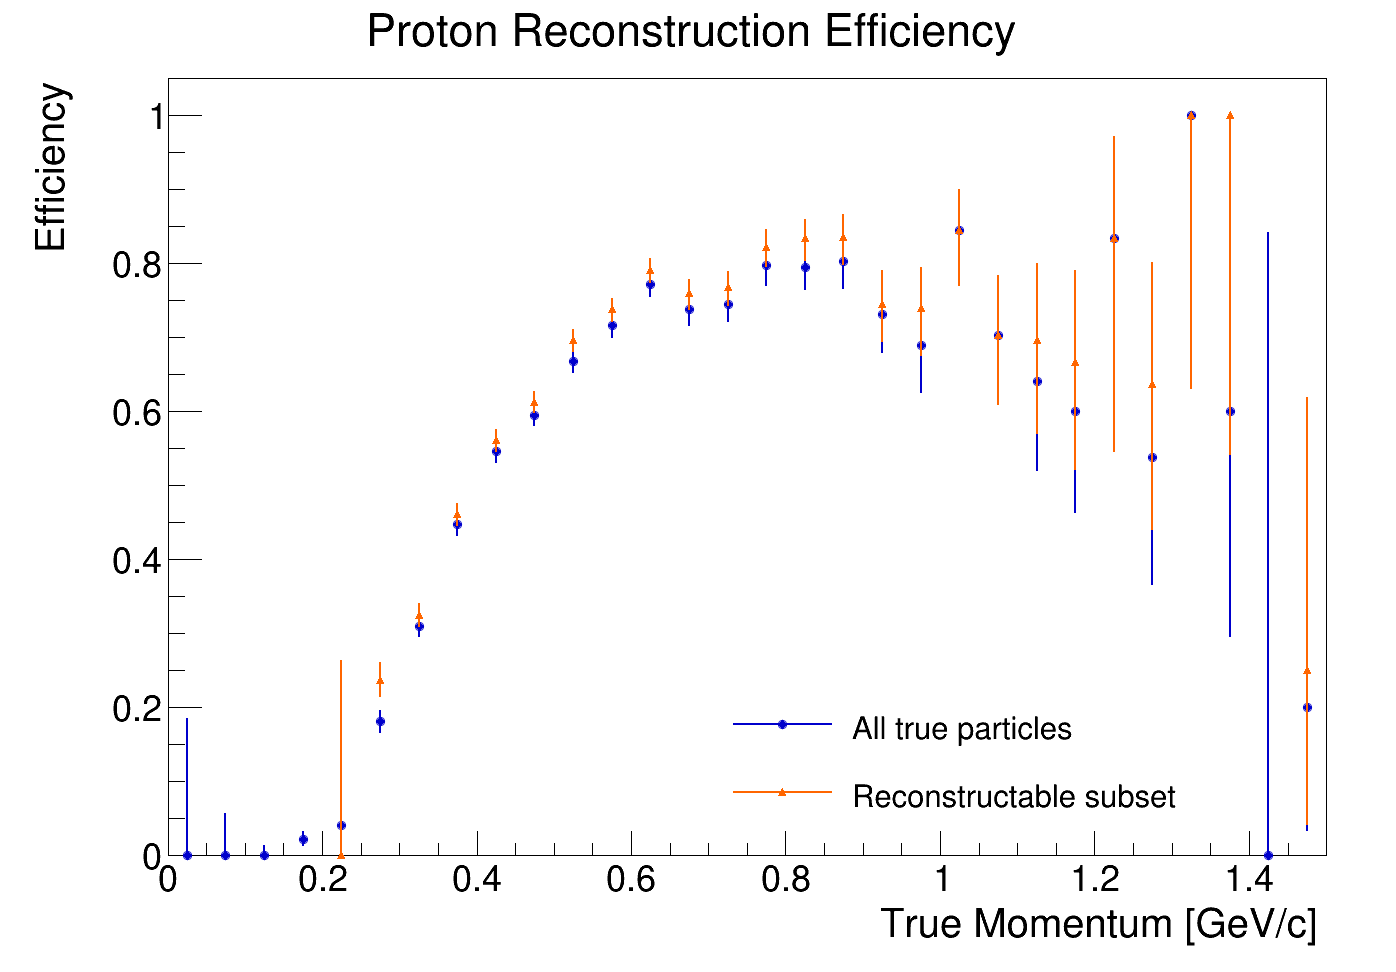
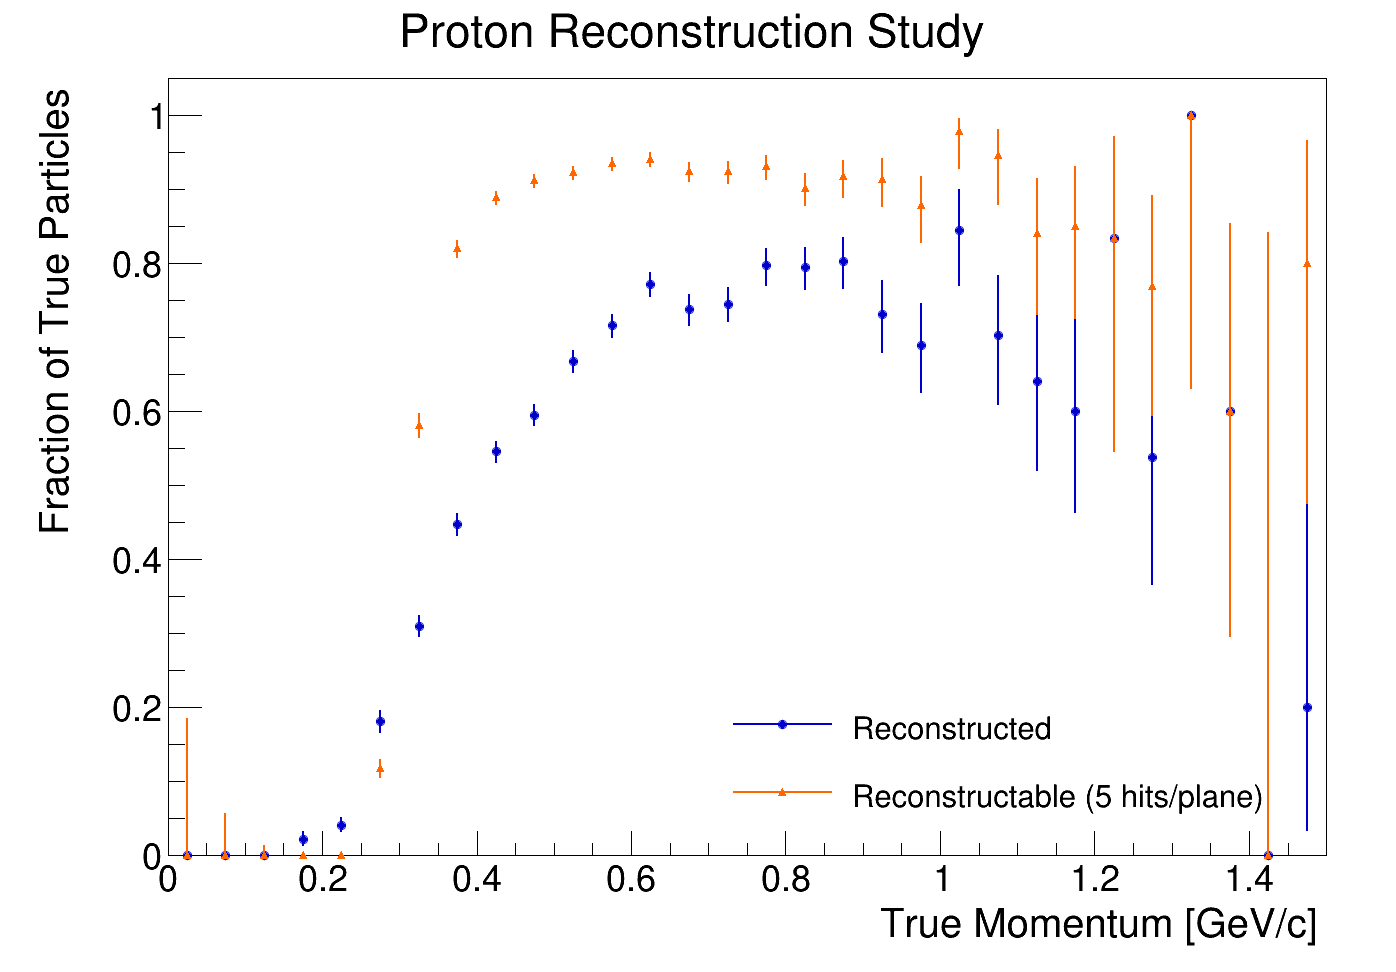
updated preselection and eff plots

diff --git a/output/recoStudy.C b/output/recoStudy.C
@@ -17,11 +17,11 @@
 
 namespace {
 
-// Same reconstructability definition as the original study.
+// Truth-level reconstructability: at least five hits in EACH wire plane.
 bool IsReconstructable(int nHits, int nU, int nV, int nZ)
 {
-    const int nGoodViews = (nU >= 5) + (nV >= 5) + (nZ >= 5);
-    return nHits >= 15 && nGoodViews >= 2;
+    (void)nHits; // Per-plane requirement already implies >= 15 total hits.
+    return nU >= 5 && nV >= 5 && nZ >= 5;
 }
 
 struct ParticleStudy {
@@ -66,7 +66,7 @@ void PlotEfficiencies(const ParticleStudy& study)
     TGraphAsymmErrors* grAll = MakeEfficiencyGraph(study.all, kBlue + 1, 20);
     TGraphAsymmErrors* grReco = MakeEfficiencyGraph(study.reconstructable, kOrange + 7, 22);
 
-    grAll->SetTitle(Form("%s Reconstruction Efficiency;True Momentum [GeV/c];Efficiency", study.name));
+    grAll->SetTitle(Form("%s Reconstruction Study;True Momentum [GeV/c];Fraction of True Particles", study.name));
     grAll->Draw("APZ");
     grAll->GetXaxis()->SetLimits(0.0, study.maxMomentum);
     grAll->GetYaxis()->SetRangeUser(0.0, 1.05);
@@ -82,8 +82,8 @@ void PlotEfficiencies(const ParticleStudy& study)
     legend->SetBorderSize(0);
     legend->SetFillStyle(0);
     legend->SetTextSize(0.035);
-    legend->AddEntry(grAll, "All true particles", "lp");
-    legend->AddEntry(grReco, "Reconstructable subset", "lp");
+    legend->AddEntry(grAll, "Reconstructed", "lp");
+    legend->AddEntry(grReco, "Reconstructable (5 hits/plane)", "lp");
     legend->Draw();
 
     canvas->Modified();
@@ -179,8 +179,9 @@ void recoStudy::Loop()
             if (reconstructable) {
                 ++study.nReconstructable;
                 if (matched) ++study.nMatchedReconstructable;
-                study.reconstructable->Fill(matched, momentum);
             }
+            // Fraction of ALL true particles satisfying the hit criterion.
+            study.reconstructable->Fill(reconstructable, momentum);
 
             if (matched) {
                 const int bestPfpIdx = trueBestRecoPfpIdx->at(i);
@@ -211,7 +212,9 @@ void recoStudy::Loop()
                   << ", matched=" << study.nMatched
                   << ", matched & reconstructable=" << study.nMatchedReconstructable
                   << ", all efficiency=" << Fraction(study.nMatched, study.nTrue)
-                  << ", reconstructable efficiency="
+                  << ", reconstructable fraction="
+                  << Fraction(study.nReconstructable, study.nTrue)
+                  << ", matched given reconstructable="
                   << Fraction(study.nMatchedReconstructable, study.nReconstructable)
                   << ", primary=" << study.nPrimary
                   << ", secondary=" << study.nSecondary

diff --git a/output/runPreselection.C b/output/runPreselection.C
@@ -8,7 +8,7 @@
 
 namespace {
 const char* sampleNames[kNSamples] = {"signal", "hyperon", "beam", "dirt", "cosmic"};
-const char* stageNames[kNStages] = {"initial", "reco_fv", "nu_score", "bcfm", "tracks", "showers"};
+const char* stageNames[kNStages] = {"initial", "reco_fv", "nu_score", "bcfm", "flash_time", "tracks", "showers"};
 const char* reasonNames[kNInvalidReasons] = {
     "no_nu_slice", "missing_slice_vector", "slice_index_out_of_range",
     "nonfinite_reco_value", "invalid_weight"
@@ -74,7 +74,7 @@ void runPreselection()
     }
     {
         auto out = openCSV(outputDir + "/preselection_patterns.csv");
-        out << "pattern,pass_reco_fv,pass_nu_score,pass_bcfm,pass_tracks,pass_showers,sample,raw,sumW,sumW2\n";
+        out << "pattern,pass_reco_fv,pass_nu_score,pass_bcfm,pass_flash_time,pass_tracks,pass_showers,sample,raw,sumW,sumW2\n";
         for (int p = 0; p < kNCutPatterns; ++p) {
             for (int c = 0; c < kNSamples; ++c) {
                 out << p;
@@ -116,7 +116,9 @@ void runPreselection()
             << "n_tracks_exact," << cuts.nTracks << '\n'
             << "n_showers_exact," << cuts.nShowers << '\n'
             << "dent_applied,false\n"
-            << "flash_time_applied,false\n"
+            << "flash_time_applied,true\n"
+            << "flash_time_min_inclusive,0.18\n"
+            << "flash_time_max_inclusive,1.73\n"
             << "weight_definition,eventWeight_POT_scale_only\n"
             << "sample_type_0,signal\n"
             << "sample_type_1,hyperon\n"
@@ -126,14 +128,15 @@ void runPreselection()
             << "pattern_bit_0,reco_fv\n"
             << "pattern_bit_1,nu_score\n"
             << "pattern_bit_2,bcfm\n"
-            << "pattern_bit_3,tracks\n"
-            << "pattern_bit_4,showers\n";
+            << "pattern_bit_3,flash_time\n"
+            << "pattern_bit_4,tracks\n"
+            << "pattern_bit_5,showers\n";
     }
     // Compatibility with the existing presentations Python script: wide-format
     // CSV with one row per cumulative stage and expected weighted yields.
     {
         auto out = openCSV(outputDir + "/preselection.csv");
-        out << "cut,signal,hyperon,beam,cosmic,dirt\n";
+        out << "cut,signal,hyperon,beam,dirt,cosmic\n";
         for (int s = 0; s < kNStages; ++s) {
             out << stageNames[s] << ','
                 << r.cutflow[s][kSignal].sumW << ','

diff --git a/output/preselection.h b/output/preselection.h
@@ -19,7 +19,7 @@
 #include <cstddef>
 
 constexpr int kNSamples = 5;
-constexpr int kNStages = 6;
+constexpr int kNStages = 7;
 
 enum SampleCategory {
     kSignal = 0,
@@ -35,8 +35,9 @@ enum SelectionStage {
     kRecoFV = 1,
     kNuScore = 2,
     kBCFM = 3,
-    kTracks = 4,
-    kShowers = 5
+    kFlashTime = 4,
+    kTracks = 5,
+    kShowers = 6
 };
 
 struct WeightedCount {
@@ -213,6 +214,7 @@ public :
    vector<float>   *sliceBaryFlashScore;
    vector<float>   *sliceBaryFlashChi2;
    vector<float>   *sliceBaryFlashPE;
+   vector<float> *sliceBaryFlashTime;
    vector<int>     *pfpKey;
    vector<int>     *pfpSelfID;
    vector<int>     *pfpParentID;
@@ -358,6 +360,7 @@ public :
    TBranch        *b_sliceBaryFlashScore;   ///<!
    TBranch        *b_sliceBaryFlashChi2;   ///<!
    TBranch        *b_sliceBaryFlashPE;   ///<!
+   TBranch        *b_sliceBaryFlashTime;   ///<!   
    TBranch        *b_pfpKey;   ///<!
    TBranch        *b_pfpSelfID;   ///<!
    TBranch        *b_pfpParentID;   ///<!
@@ -559,6 +562,7 @@ void preselection::Init(TTree *tree)
    sliceBaryFlashScore = 0;
    sliceBaryFlashChi2 = 0;
    sliceBaryFlashPE = 0;
+   sliceBaryFlashTime = 0;
    pfpKey = 0;
    pfpSelfID = 0;
    pfpParentID = 0;
@@ -702,6 +706,7 @@ void preselection::Init(TTree *tree)
    fChain->SetBranchAddress("sliceBaryFlashScore", &sliceBaryFlashScore, &b_sliceBaryFlashScore);
    fChain->SetBranchAddress("sliceBaryFlashChi2", &sliceBaryFlashChi2, &b_sliceBaryFlashChi2);
    fChain->SetBranchAddress("sliceBaryFlashPE", &sliceBaryFlashPE, &b_sliceBaryFlashPE);
+   fChain->SetBranchAddress("sliceBaryFlashTime", &sliceBaryFlashTime, &b_sliceBaryFlashTime);
    fChain->SetBranchAddress("pfpKey", &pfpKey, &b_pfpKey);
    fChain->SetBranchAddress("pfpSelfID", &pfpSelfID, &b_pfpSelfID);
    fChain->SetBranchAddress("pfpParentID", &pfpParentID, &b_pfpParentID);

diff --git a/output/preselection.C b/output/preselection.C
@@ -39,7 +39,7 @@ PreselectionResults preselection::Loop(const PreselectionCuts& cuts)
 
         // Check every applicable slice-validation failure, not just the first.
         const bool noSlice = nuSliceIdx < 0;
-        const bool missingVector = !sliceNuScore || !sliceBaryFlashScore ||
+        const bool missingVector = !sliceNuScore || !sliceBaryFlashScore || !sliceBaryFlashTime ||
                                    !sliceVtxX || !sliceVtxY || !sliceVtxZ;
         bool outOfRange = false;
         bool nonFinite = false;
@@ -77,6 +77,7 @@ PreselectionResults preselection::Loop(const PreselectionCuts& cuts)
         const double z = sliceVtxZ->at(idx);
         const double nuScore = sliceNuScore->at(idx);
         const double bcfm = sliceBaryFlashScore->at(idx);
+        const double flashTime = sliceBaryFlashTime->at(idx);
 
         // Keep the previous RecoFV geometry (dent not applied).
         const bool pass[kNPhysicsCuts] = {
@@ -85,6 +86,7 @@ PreselectionResults preselection::Loop(const PreselectionCuts& cuts)
             z > cuts.recoVtxZMin && z < cuts.recoVtxZMax,
             nuScore > cuts.nuScore.value,
             bcfm > cuts.bcfm.value,
+            flashTime >= 0.18 && flashTime <= 1.73,
             nTracks == cuts.nTracks,
             nShowers == cuts.nShowers
         };
@@ -106,7 +108,7 @@ PreselectionResults preselection::Loop(const PreselectionCuts& cuts)
     }
 
     const char* stageNames[kNStages] = {
-        "Initial", "RecoFV", "nuScore", "BCFM", "Tracks", "Showers"
+        "Initial", "RecoFV", "nuScore", "BCFM", "FlashTime", "Tracks", "Showers"
     };
     const char* sampleNames[kNSamples] = {
         "Signal", "Other Hyperons", "Beam", "Dirt", "Cosmic"
